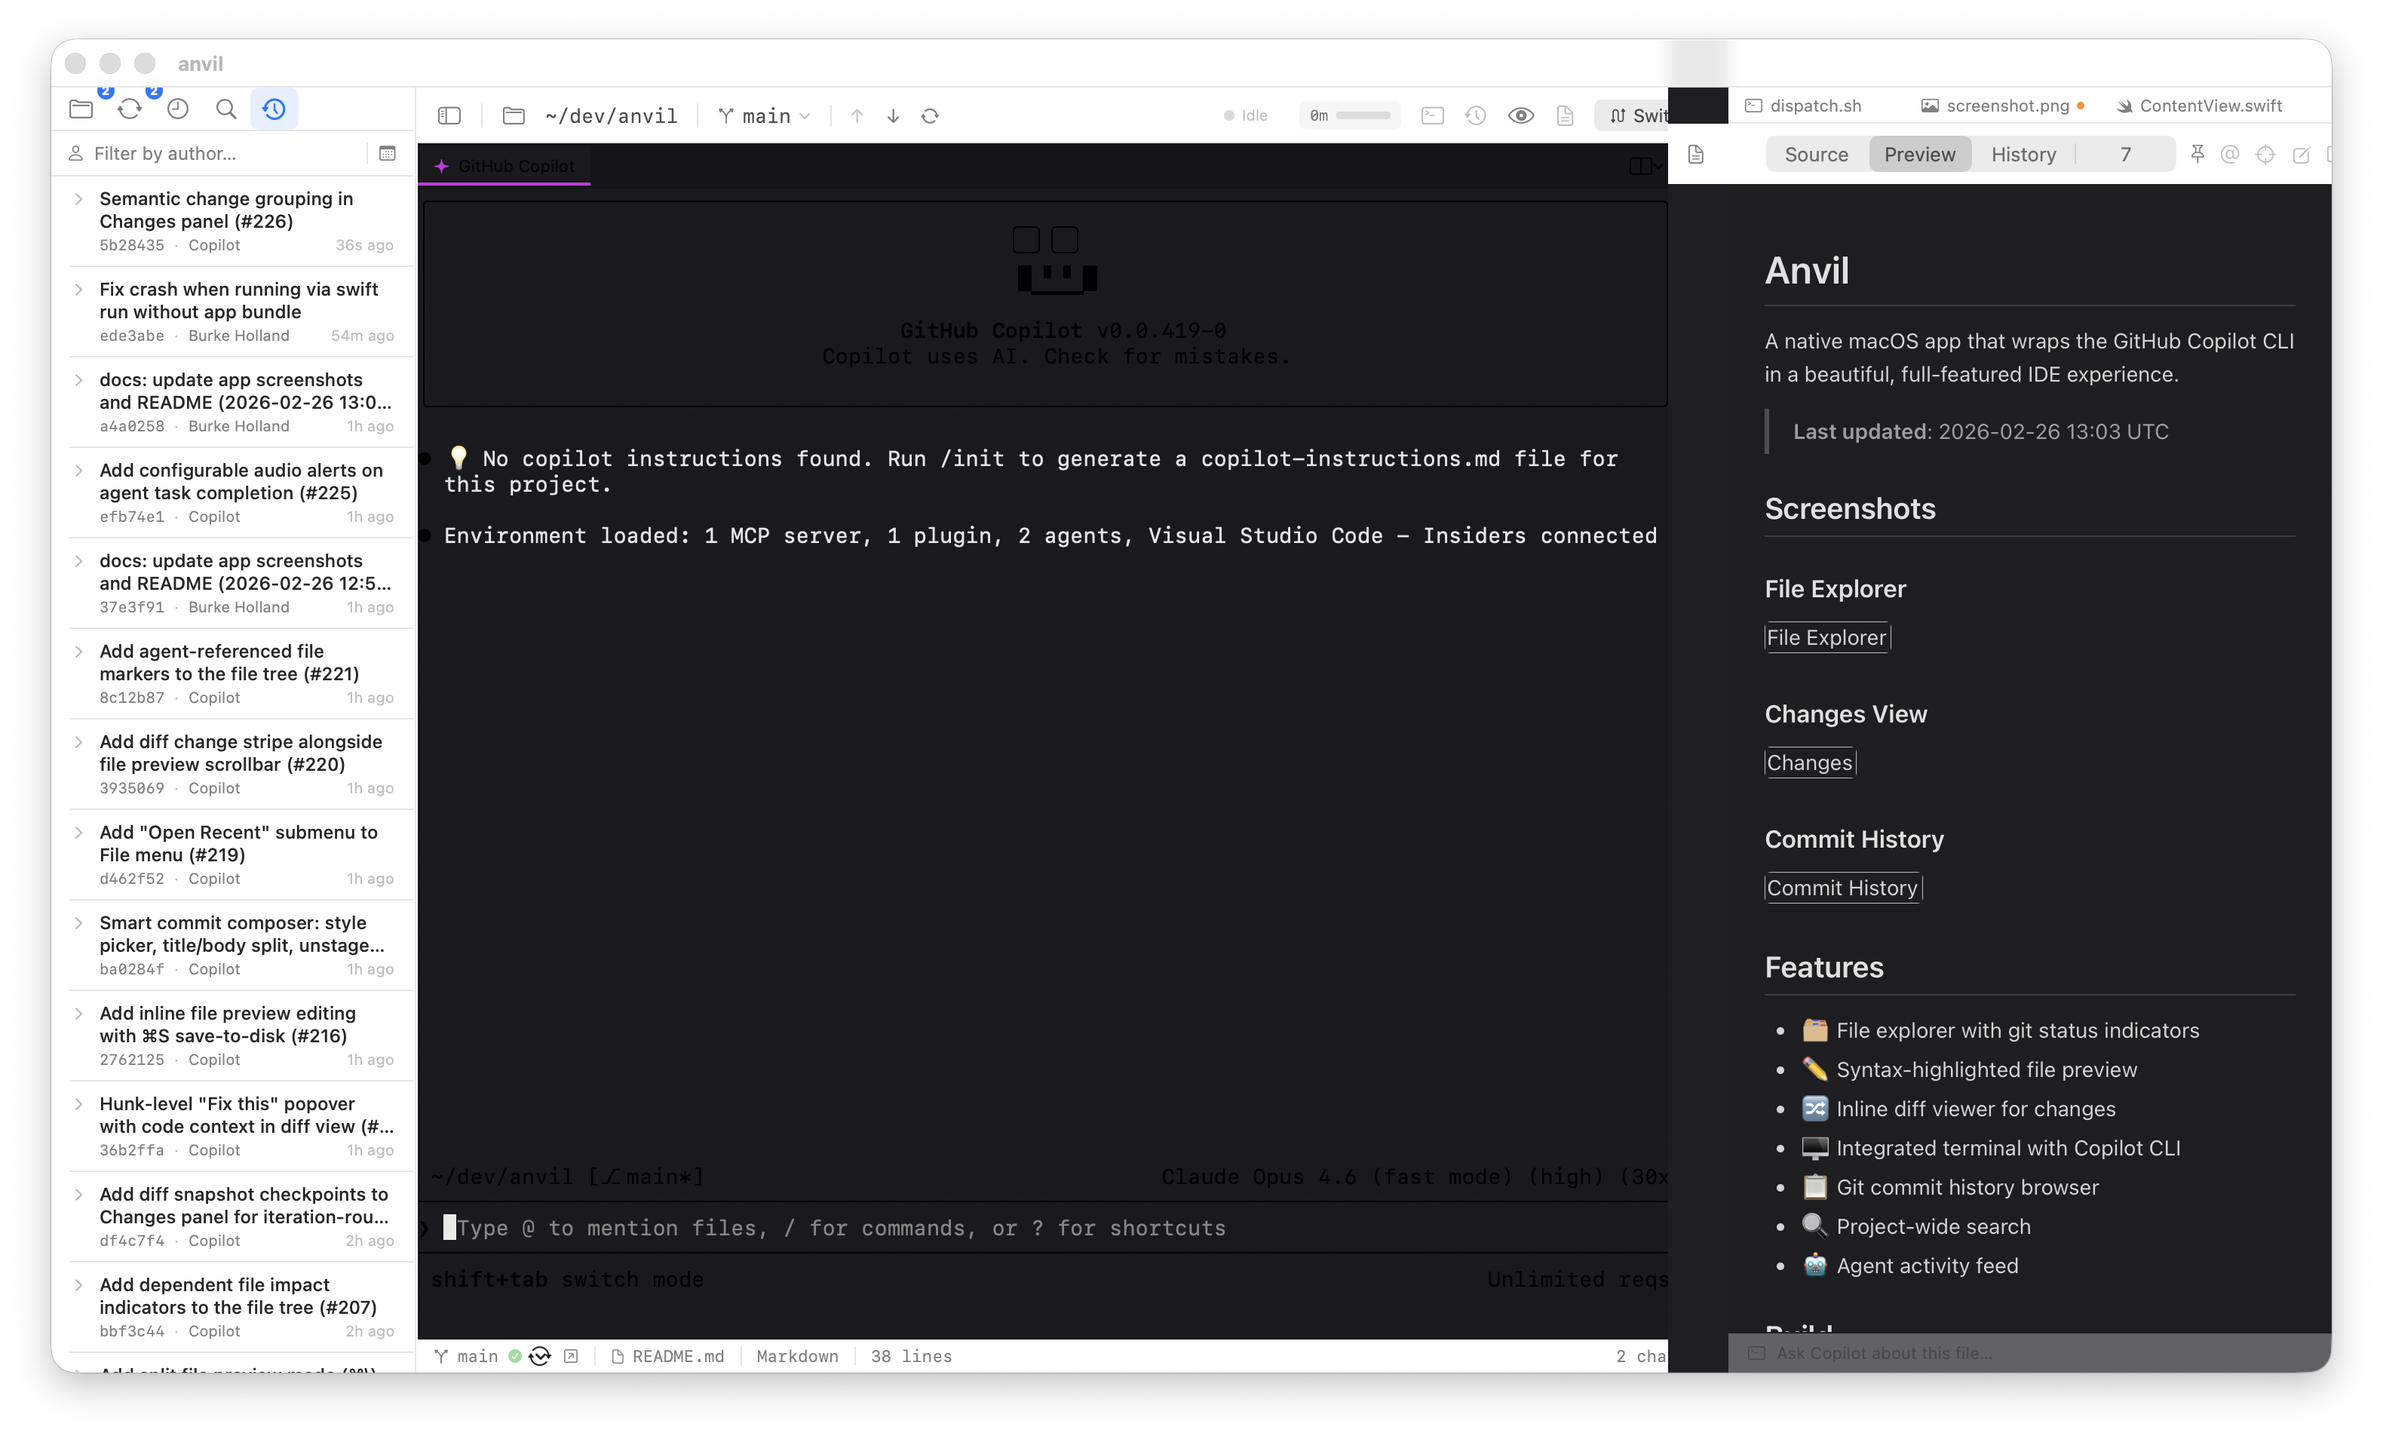
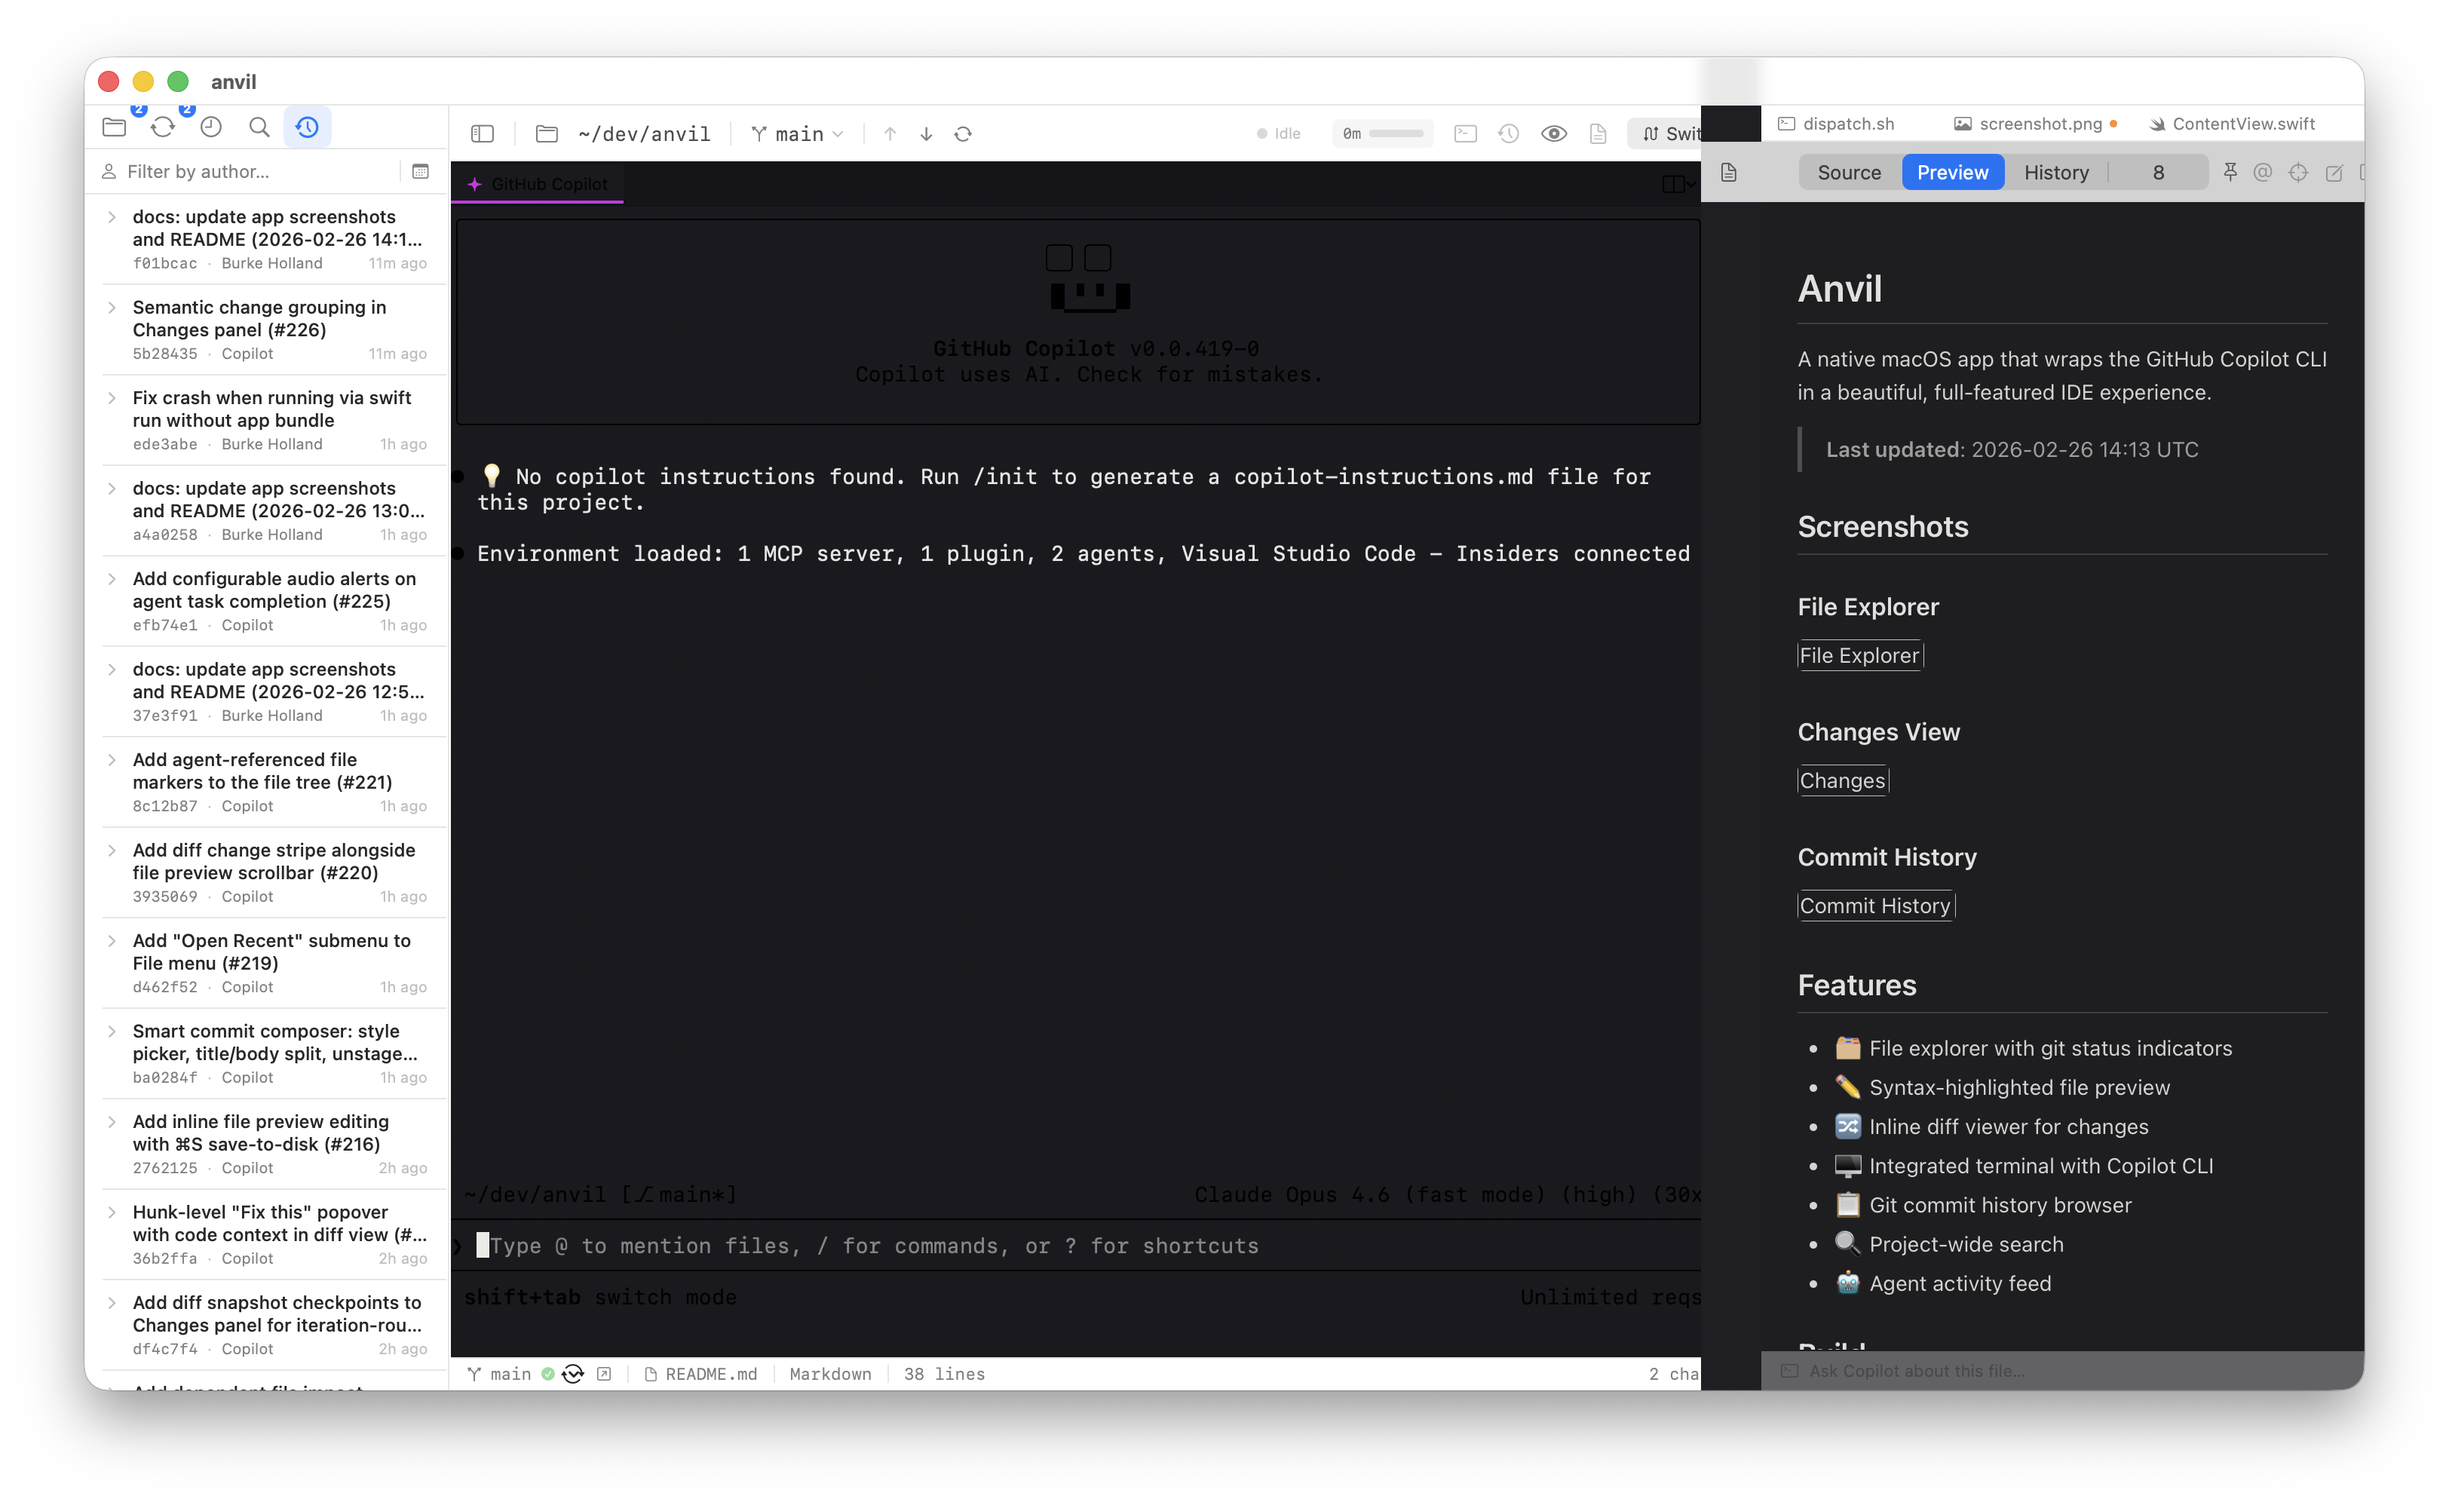
docs: update app screenshots and README (2026-02-26 14:24 UTC)

diff --git a/README.md b/README.md
@@ -2,7 +2,7 @@
 
 A native macOS app that wraps the GitHub Copilot CLI in a beautiful, full-featured IDE experience.
 
-> **Last updated**: 2026-02-26 14:13 UTC
+> **Last updated**: 2026-02-26 14:24 UTC
 
 ## Screenshots
 
